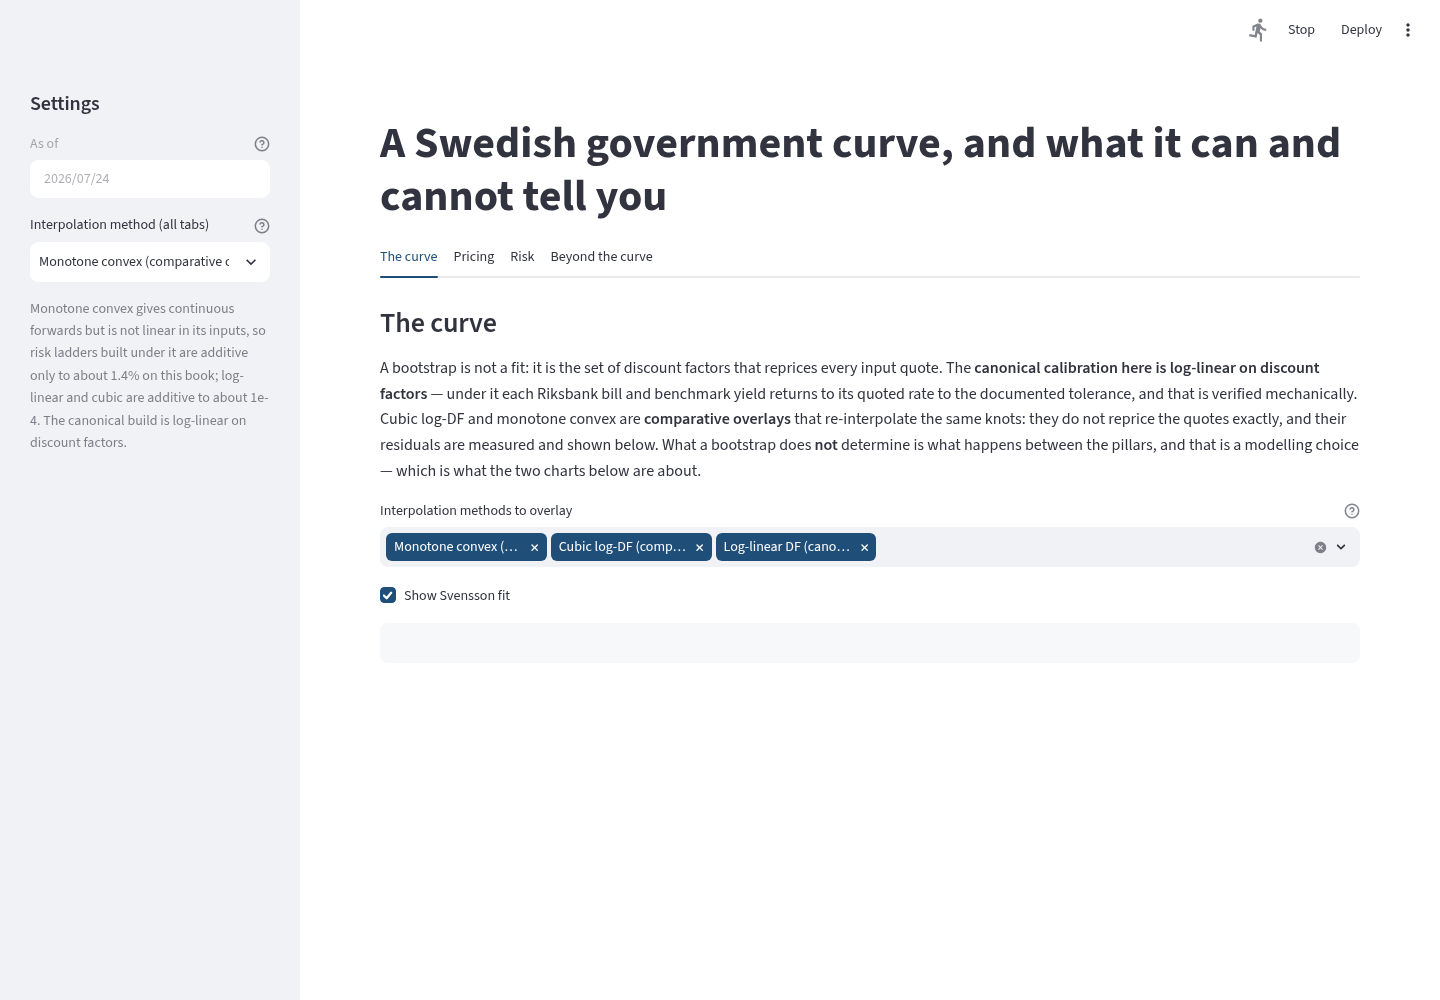
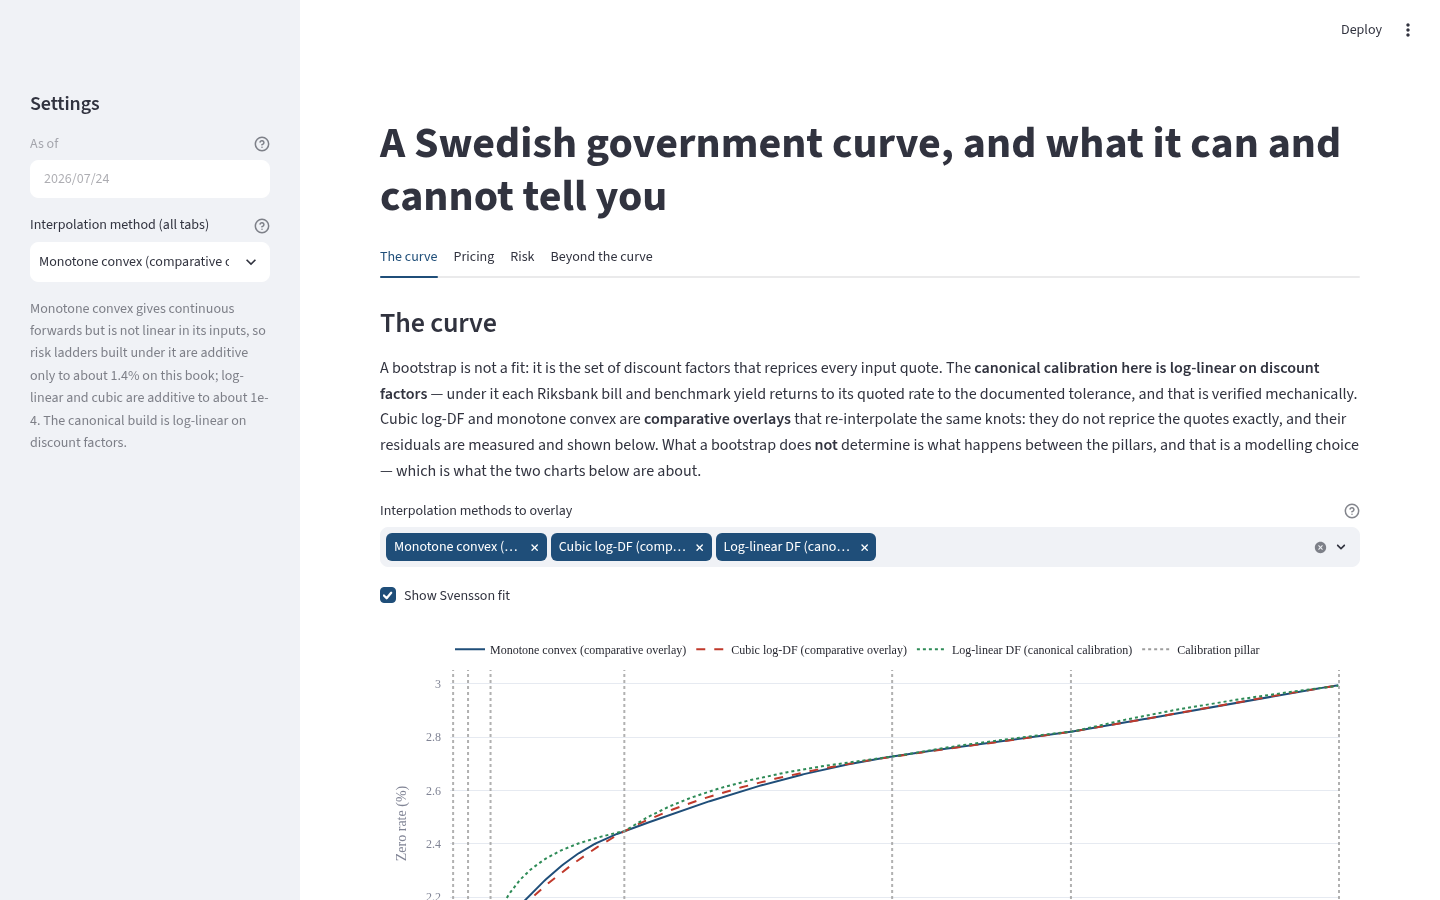
docs: verified-build screenshot, sdist count 128

diff --git a/README.md b/README.md
@@ -101,7 +101,7 @@ Everything below is a software verification check with an exact measured quantit
 | ECB Svensson reconstruction | published parameters rebuild the published spot curve within 0.5 bp at every published tenor; independent fit within 1.0 bp, RMSE < 0.5 bp | `tests/curves/test_parametric.py` |
 | Log-linear quote repricing | every quote within the 1e-6 bp tolerance; overlay residuals measured per quote (pinned nonzero: each > 1e-8 in decimal rate) | `tests/curves/test_bootstrap.py` |
 | EU 2024/856 scenarios | six Article 1(1) shocks, USD/SEK 200/300/150 bp, Article 3(7) floor applied | `tests/risk/test_bcbs_scenarios.py` |
-| Wheel/sdist contents | wheel: 44 members incl. all 11 datasets, `scenarios.toml`, limitations doc; sdist: 123 members, zero denylist hits | `tests/test_build.py`, `tests/test_distribution.py` |
+| Wheel/sdist contents | wheel: 44 members incl. all 11 datasets, `scenarios.toml`, limitations doc; sdist: 128 members, zero denylist hits | `tests/test_build.py`, `tests/test_distribution.py` |
 | Golden pipeline regression | pinned end-to-end values (`pipeline_v1.json`) | `tests/golden/test_pipeline_golden.py` |
 
 QuantLib is a development-only extra: nothing in `src/` imports it, and the parity tests treat it as a cross-check, not as proof that the models are validated for use.
